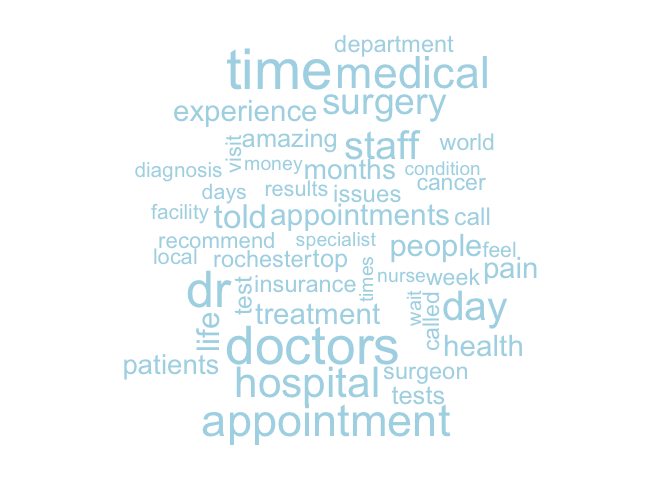
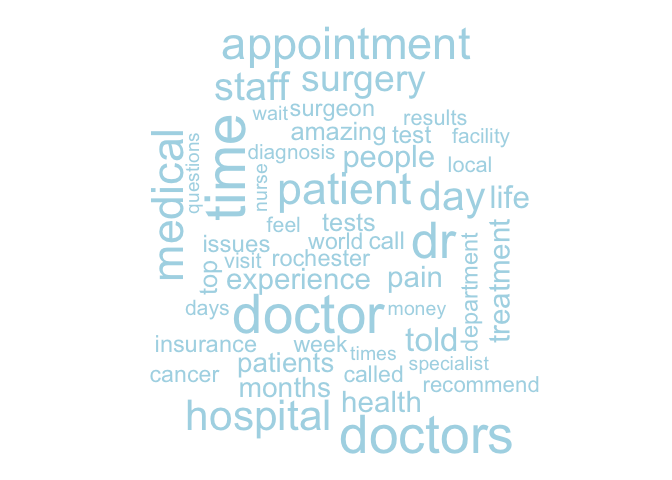
added more insights to the exhibits

Changed region(s): [[0.1875, 0.0625, 0.8125, 0.9688]]

diff --git a/Mayo-Clinic-Yelp-Review-Text-Analysis.md b/Mayo-Clinic-Yelp-Review-Text-Analysis.md
@@ -716,14 +716,11 @@ wordcloud(
 )
 ```
 
-    ## Warning in wordcloud(words = data7$word, freq = data7$n, max.words = 50, :
-    ## patient could not be fit on page. It will not be plotted.
-
     ## Warning in wordcloud(words = data7$word, freq = data7$n, max.words = 50, : care
     ## could not be fit on page. It will not be plotted.
 
     ## Warning in wordcloud(words = data7$word, freq = data7$n, max.words = 50, :
-    ## doctor could not be fit on page. It will not be plotted.
+    ## appointments could not be fit on page. It will not be plotted.
 
 ![](Mayo-Clinic-Yelp-Review-Text-Analysis_files/figure-gfm/unnamed-chunk-23-1.png)<!-- -->
 
@@ -779,16 +776,16 @@ wordcloud(
 ```
 
     ## Warning in wordcloud(words = data_A1T$word, freq = data_A1T$n, max.words = 50, :
-    ## appointment could not be fit on page. It will not be plotted.
+    ## absolutely could not be fit on page. It will not be plotted.
 
     ## Warning in wordcloud(words = data_A1T$word, freq = data_A1T$n, max.words = 50, :
-    ## patient could not be fit on page. It will not be plotted.
+    ## doctor could not be fit on page. It will not be plotted.
 
     ## Warning in wordcloud(words = data_A1T$word, freq = data_A1T$n, max.words = 50, :
-    ## surgery could not be fit on page. It will not be plotted.
+    ## months could not be fit on page. It will not be plotted.
 
     ## Warning in wordcloud(words = data_A1T$word, freq = data_A1T$n, max.words = 50, :
-    ## hospital could not be fit on page. It will not be plotted.
+    ## experience could not be fit on page. It will not be plotted.
 
 ![](Mayo-Clinic-Yelp-Review-Text-Analysis_files/figure-gfm/unnamed-chunk-25-1.png)<!-- -->
 
@@ -864,6 +861,8 @@ ggplot(sentiment_data_nrc, aes(x= sentiment2, y=n)) +
 
 ![](Mayo-Clinic-Yelp-Review-Text-Analysis_files/figure-gfm/unnamed-chunk-26-1.png)<!-- -->
 
+Interesting.
+
 Insights:
 
 -   Based on the NRC dictionary, majority of the patients expressed the
@@ -898,10 +897,21 @@ ggplot(sentiment_data_loughran, aes(x= sentiment2, y=n)) +
 
 Even more interesting.
 
+Insights:
+
+-   Using this dictionary, we see that many of the reviews a categorized
+    as negative.
+-   There is a 2x count of negative vs positive reviews.
+-   Uncertainty, litigious, constraining categories could further be
+    included as negative.
+
 ## Limitations
 
 Depending on the dictionary, there could be a diverse set of insights
-from patients reviews.
+from patients reviews. Using only two dictionaries, we see that the
+reviews can easily be interpreted in different ways. Thus, sentiment
+analysis although a good tool to understand patient perceptions are not
+alone should be a sole tool to understand.
 
 ## Conclusions
 
